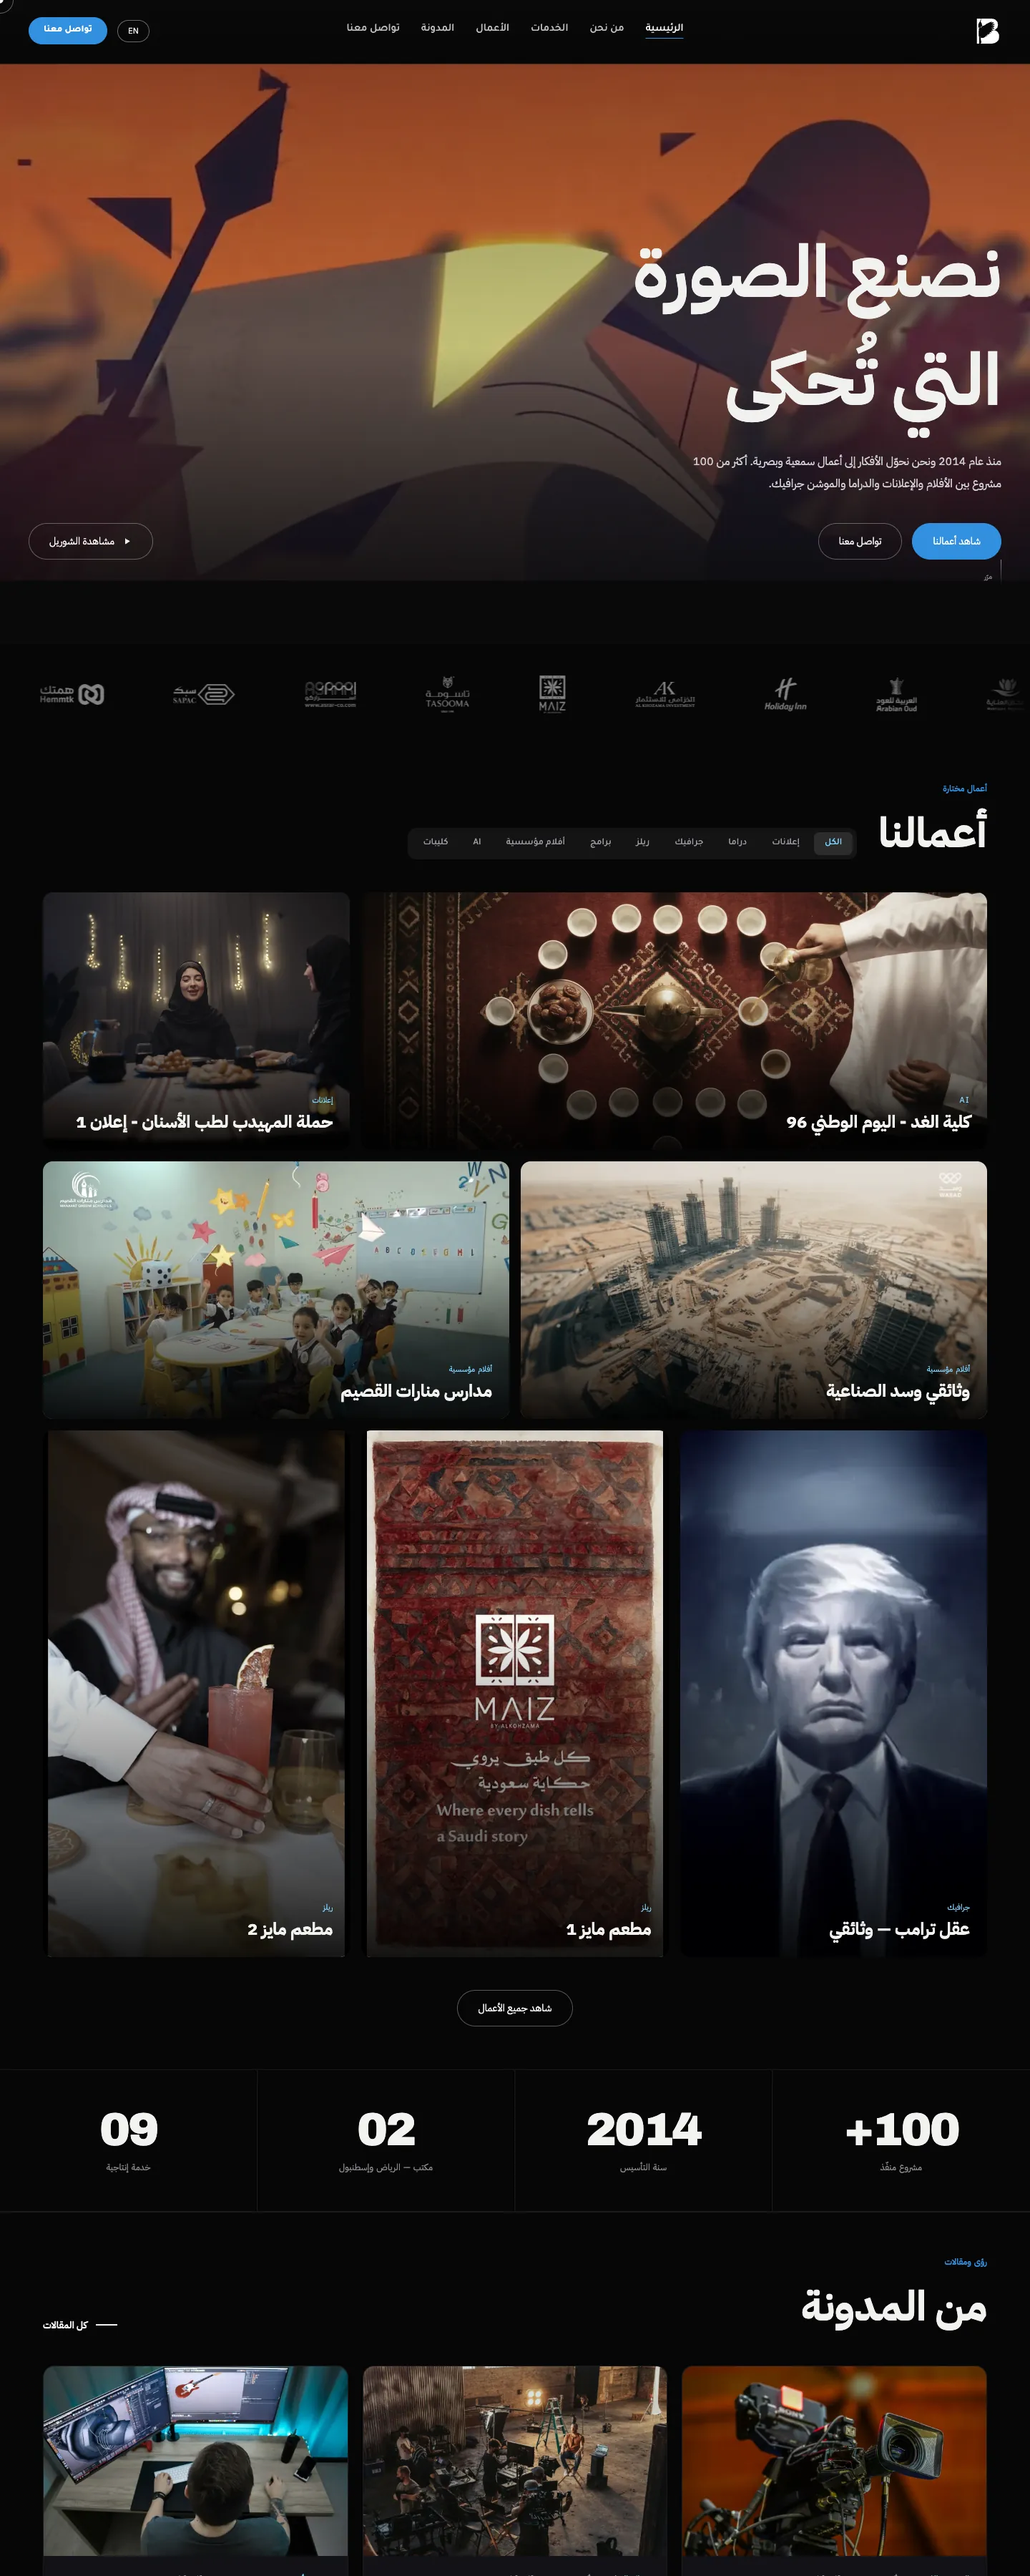
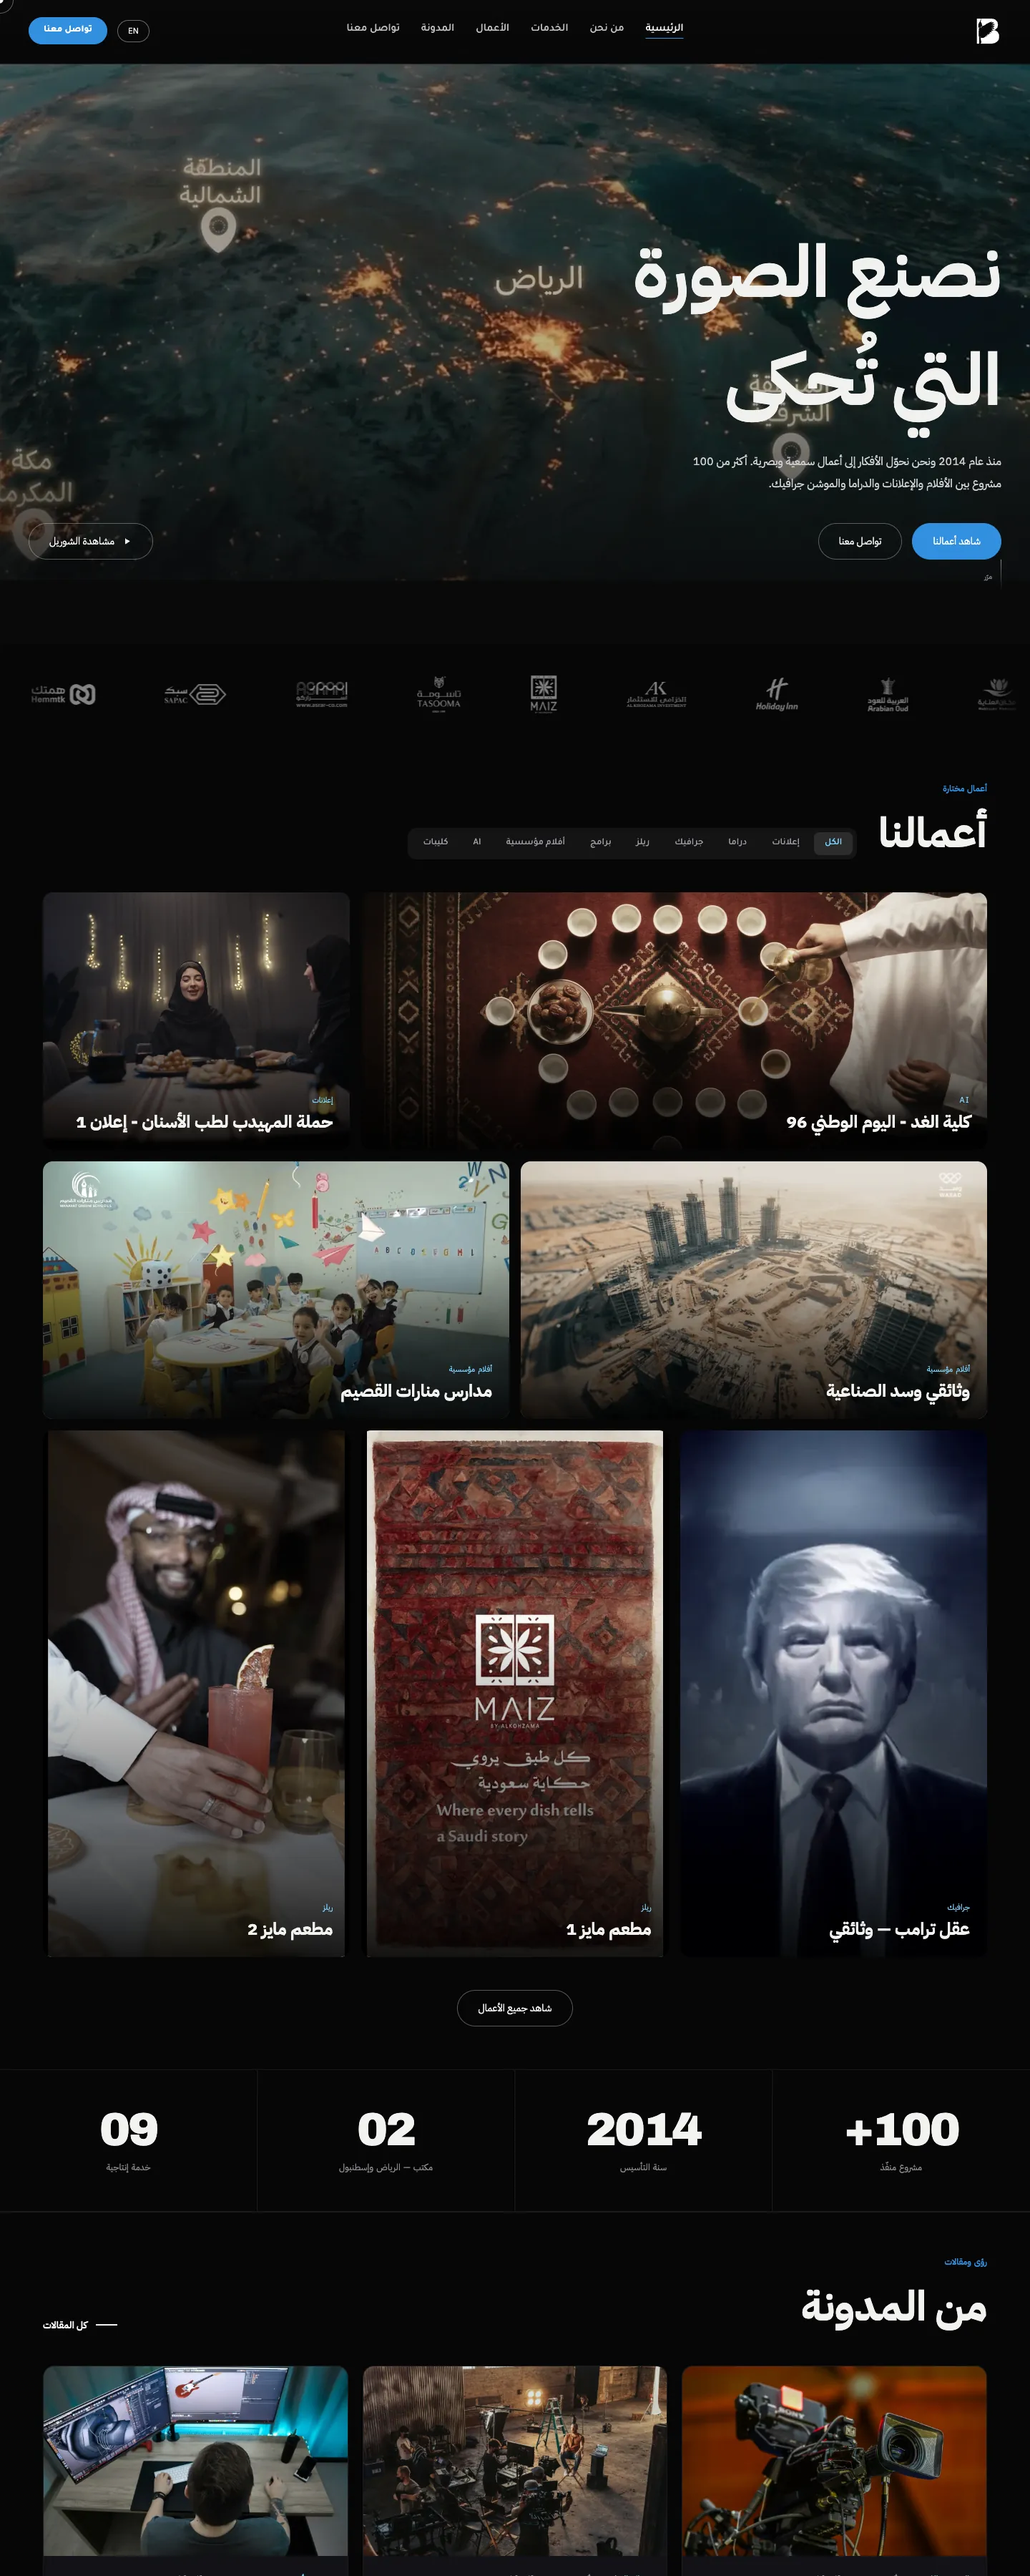
Sites: Blue opens on the reel poster frame; hovering the front site pauses the tour and the wheel scrolls it

diff --git a/index.html b/index.html
@@ -28,7 +28,7 @@
 <link rel="preconnect" href="https://fonts.googleapis.com">
 <link rel="preconnect" href="https://fonts.gstatic.com" crossorigin>
 <link href="https://fonts.googleapis.com/css2?family=Alexandria:wght@300;400;500;700;800;900&family=IBM+Plex+Sans+Arabic:wght@300;400;500;600&display=swap" rel="stylesheet">
-<link rel="stylesheet" href="css/style.css?v=107">
+<link rel="stylesheet" href="css/style.css?v=108">
 <script>document.documentElement.classList.add('js');if(!matchMedia('(prefers-reduced-motion: reduce)').matches&&!/[?&]nointro/.test(location.search)&&!location.hash)document.documentElement.classList.add('intro-on')</script>
 </head>
 <body>
@@ -130,7 +130,7 @@
         <div class="pair">
           <span class="pair__wasb"><svg class="pair__sym" viewBox="0 0 263 358" aria-hidden="true"><use href="#wasb-symbol"/></svg><span class="ar-only"><svg viewBox="0 0 257.7 90.3" aria-hidden="true"><use href="#wasb-word"/></svg></span><span class="en-only"><svg viewBox="0 0 263.17 69.84" aria-hidden="true"><use href="#wasb-latin"/></svg></span></span>
           <i class="pair__x" aria-hidden="true"></i>
-          <a class="pair__blue" href="https://blue-network.sa" target="_blank" rel="noopener" aria-label="Blue Network"><img src="assets/blue/blue-icon-white.webp?v=107" alt="" width="356" height="400"><span>Blue Network</span></a>
+          <a class="pair__blue" href="https://blue-network.sa" target="_blank" rel="noopener" aria-label="Blue Network"><img src="assets/blue/blue-icon-white.webp?v=108" alt="" width="356" height="400"><span>Blue Network</span></a>
         </div>
         <p class="say__text" data-i18n="about.p2">وثب هي الامتداد الإبداعي واستوديو التصميم والهوية البصرية لـ Blue Network. نبني للشركات الناشئة والمتوسطة في السعودية هويتها البصرية وشعاراتها ومواقعها وملفاتها التعريفية، بفريق يجمع الإخراج الفني والتصميم والتطوير.</p>
     </div>
@@ -228,7 +228,7 @@
   <div class="case__scroll" id="caseScroll" tabindex="-1"><article class="case__body" id="caseBody"></article></div>
 </div>
 
-<script src="js/config.js?v=107"></script>
-<script src="js/main.js?v=107"></script>
+<script src="js/config.js?v=108"></script>
+<script src="js/main.js?v=108"></script>
 </body>
 </html>

diff --git a/js/main.js b/js/main.js
@@ -227,7 +227,7 @@
 
   /* ---------- sites: a panoramic hall ---------- */
   const pano = $('#pano'), stage = $('#panoStage');
-  let at = 0, cards = [], panoTimer = 0, panoSeen = false;
+  let at = 0, cards = [], panoTimer = 0, panoSeen = false, panoHover = null;
   const panoPos = [];
   function renderPano() {
     stage.innerHTML = SITES.map((s, i) => `<div class="card" data-i="${i}" role="group" aria-roledescription="slide" aria-label="${esc(s.label)}">
@@ -244,6 +244,7 @@
     const n = SITES.length;
     const prev = at;
     at = (i + n) % n;
+    panoHover = null;
     // put a card straight onto its latest place, without animating
     const snap = (c, k) => {
       c.classList.add('no-anim');
@@ -294,6 +295,33 @@
     if (reduce.matches || !panoSeen) return;
     panoTimer = setTimeout(() => goPano(at + 1), 5600);
   }
+  // resting the pointer on the site in front pauses the tour; the wheel then scrolls that page
+  const imgY = im => {
+    const v = (getComputedStyle(im).translate || '0 0').split(' ')[1] || '0px';
+    return v.endsWith('%') ? parseFloat(v) * im.offsetHeight / 100 : parseFloat(v) || 0;
+  };
+  stage.addEventListener('mouseover', e => {
+    const c = e.target.closest('.card.is-on');
+    if (!c || c === panoHover) return;
+    panoHover = c; clearTimeout(panoTimer);
+    const im = $('.card__view img', c);
+    c._y = imgY(im);
+    im.style.transition = 'none'; im.style.translate = `0px ${c._y}px`;
+  });
+  stage.addEventListener('mouseout', e => {
+    if (!panoHover || panoHover.contains(e.relatedTarget)) return;
+    panoHover = null; restartPano();
+  });
+  stage.addEventListener('wheel', e => {
+    const c = panoHover;
+    if (!c || !c.classList.contains('is-on')) return;
+    const im = $('.card__view img', c), max = Math.max(0, im.offsetHeight - im.parentElement.clientHeight);
+    const y = Math.min(0, Math.max(-max, c._y - e.deltaY));
+    if (y === c._y) return;            // at the top or the bottom: let the page scroll on
+    e.preventDefault();
+    c._y = y;
+    im.style.transition = 'translate .45s cubic-bezier(.22, 1, .36, 1)'; im.style.translate = `0px ${y}px`;
+  }, { passive: false });
   $('#panoPrev').addEventListener('click', () => goPano(at - 1));
   $('#panoNext').addEventListener('click', () => goPano(at + 1));
   if ('IntersectionObserver' in window) {

diff --git a/js/config.js b/js/config.js
@@ -245,6 +245,6 @@ window.WASB_TAGS = {
     { id: 'vendviz', label: 'vendviz.com', url: 'https://www.vendviz.com/', src: A + 'web/vendviz-full.webp?v=2' },
     { id: 'jadeed', label: 'jadeedsa.com', url: 'https://jadeedsa.com/', src: A + 'web/jadeed-full.webp' },
     { id: 'viora', label: 'viora-dev.com', url: 'https://viora-dev.com/', src: A + 'web/viora-full.webp' },
-    { id: 'blue', label: 'blue-network.sa', url: 'https://blue-network.sa/', src: A + 'web/blue-full.webp' }
+    { id: 'blue', label: 'blue-network.sa', url: 'https://blue-network.sa/', src: A + 'web/blue-full.webp?v=2' }
   ];
 })();
